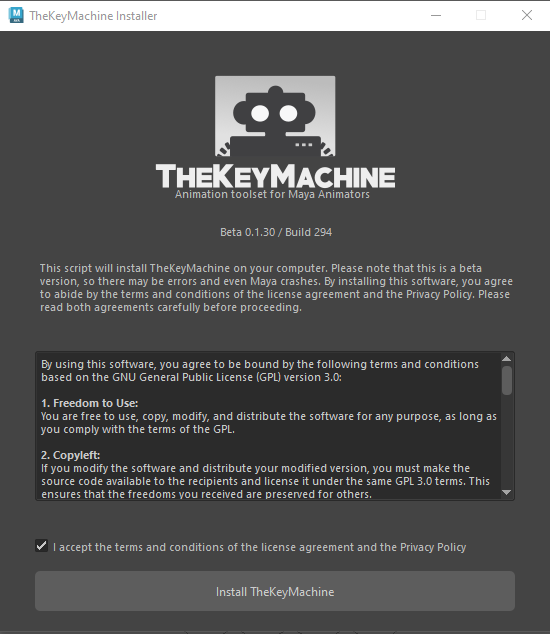
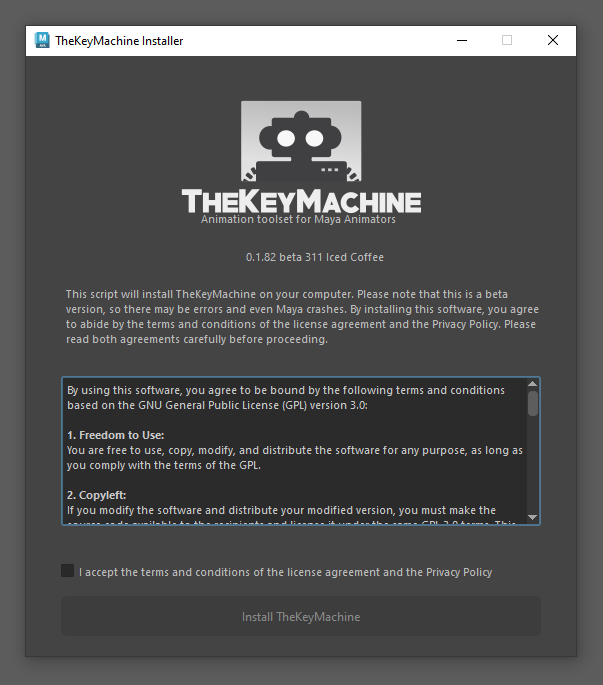
updating images

diff --git a/TheKeyMachine_Drag&Drop_installer.py b/TheKeyMachine_Drag&Drop_installer.py
@@ -31,7 +31,7 @@ except ImportError:
     from shiboken6 import wrapInstance
     from PySide6 import QtWidgets, QtCore, QtGui
 
-__version__ = "0.1.73"
+__version__ = "0.1.82"
 __stage__ = "beta"
 __build__ = "311"
 __codename__ = "Iced Coffee"
